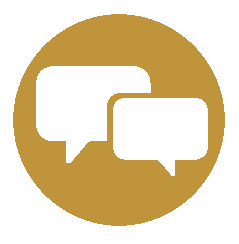
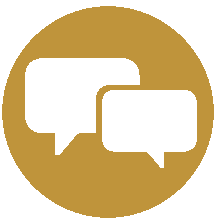
home page updated

Changed region(s): [[0.0, 0.0271, 0.9954, 1.0], [0.3318, 0.5701, 0.4424, 0.6244]]

diff --git a/index.html b/index.html
@@ -146,9 +146,10 @@
                 </div>
                 <div class="row sub">
                     <div class="col-sm-3">
-                        <h3 class="lite">Data</h3>
+                        <img class="icon" src="img/data.png">
                     </div>
                     <div class="col-sm-6 text-left">
+                        <h3 class="lite">Data</h3>
                         <p>
                             Coming soon. Registered voters in Ohio will be able to sign up for free and access unofficial voting on 
                             proposed legislation. Using the results from this unofficial voting we will be able to generate important 
@@ -158,9 +159,10 @@
                 </div>
                 <div class="row sub">
                     <div class="col-sm-offset-3 col-sm-3 col-sm-push-6">
-                        <h3 class="lite">Decisions</h3>
+                        <img class="icon" src="img/erabe.png">
                     </div>
-                    <div class="col-sm-6 col-sm-pull-3 text-left">
+                    <div class="col-sm-6 col-sm-pull-3 text-right">
+                        <h3 class="lite">Decisions</h3>
                         <p>
                             Grapevine’s ultimate goal is to be a tool that supplements representative democracy. We want to start by
                             helping the people of Ohio stay engaged with their state politics. We want to generate information that can
@@ -171,13 +173,78 @@
             </div>
         </section>
 
-        <!-- Contact Section -->
+        <!-- Contact/FAQ Section -->
         <section id="contact" class="contact-section">
             <div class="container">
                 <div class="row">
-                    <div class="col-lg-12">
-                        <h1>Contact Us</h1>
-                        <p>john@grapevineohio.com</p>
+                    <div class="col-sm-6 faq">
+                        <div class="row heading">
+                            <div class="col-xs-12">
+                                <h2>FAQS</h2>
+                            </div>
+                        </div>
+                        <div class="row">
+                            <div class="col-sm-offset-1 col-sm-10 text-left">
+                                <h4>What is Grapevine?</h4>
+                                <p>
+                                    Grapevine is a site that promotes nonpartisan civic
+                                    engagement in Ohio. It combines technology and politics
+                                    to supplement representative democracy in Ohio.
+                                </p>
+                            </div>
+                        </div>
+                        <div class="row">
+                            <div class="col-sm-offset-1 col-sm-10 text-left">
+                                <h4>How does Grapevine benefit me?</h4>
+                                <p>
+                                    Grapevine offers a place for citizens of Ohio
+                                    to learn about legislation in Ohio through direct
+                                    research and discussion.
+                                </p>
+                            </div>
+                        </div>
+                        <div class="row">
+                            <div class="col-sm-offset-1 col-sm-10 text-left">
+                                <h4>Some features say coming soon, how soon?</h4>
+                                <p>
+                                    This is unknown. Grapevine is currently
+                                    exploring future financial and operational plans.
+                                </p>
+                            </div>
+                        </div>
+                        <div class="row">
+                            <div class="col-sm-offset-1 col-sm-10 text-left">
+                                <h4>What can I do to help Grapevine?</h4>
+                                <p>
+                                    Bookmark this page. Follow Grapevine 
+                                    on Twitter <span class="lite">@GrapevineOhio.</span>
+                                    Spread the word.
+                                </p>
+                            </div>
+                        </div>
+                    </div>
+                    <div class="col-sm-6">
+                        <div class="row heading">
+                            <div class="col-lg-12">
+                                <h2>Reach Out to Us</h2>
+                            </div>
+                        </div>
+                        <div class="row contact-info">
+                            <div class="col-xs-4 text-right">
+                                <img class="mini-icon" src="img/mail.png">
+                            </div>
+                            <div class="col-xs-7 text-left">
+                                <p>John@grapevineohio.com</p>
+                            </div>
+                        </div>
+                        <div class="row contact-info">
+                            <div class="col-xs-4 text-right">
+                                <img class="mini-icon" src="img/twitter.png">
+                            </div>
+                            <div class="col-xs-7 text-left">
+                                <p>@GrapevineOhio</p>
+                            </div>
+                        </div>
                     </div>
                 </div>
             </div>
@@ -209,7 +276,6 @@
 
                 <!-- Main Script -->
                 <script src="js/script.js"></script>
-                <script src="https://cdn.ywxi.net/js/1.js" async></script>
 
             </body>
 

diff --git a/css/style.css b/css/style.css
@@ -17,16 +17,16 @@ p {
     font-size: 1em;
 }
 
-.heading * {
-    font-family: 'Julius Sans One', sans-serif;
-}
-
 .lite {
     color: #BF943B;
 }
 
 .icon {
-    max-width: 160px;
+    width: 160px;
+}
+
+.mini-icon {
+    max-width: 40px;
 }
 
 /** Logo / Nav */
@@ -58,6 +58,10 @@ p {
     margin-bottom: 10vh;
 }
 
+.heading * {
+    font-family: 'Julius Sans One', sans-serif;
+}
+
 .sub {
     margin-bottom: 5vh;
 }
@@ -65,6 +69,15 @@ p {
 .sub * {
     margin-top: 0;
     margin-bottom: 0;
+}
+
+.contact-info p {
+    font-size: 1.2em;
+    line-height: 35px;
+}
+
+.faq p {
+    margin-left: 30px;
 }
 
 /** Typed */

diff --git a/css/scrolling-nav.css b/css/scrolling-nav.css
@@ -31,6 +31,7 @@ html {
     padding-top: 150px;
     text-align: center;
     background: #eee;
+    padding-bottom: 50px;
 }
 
 /** Responsive Options */

diff --git a/pages/login.php b/pages/login.php
@@ -163,7 +163,7 @@ closeDB($db);
         </nav>
 
         <!-- Sign In / Sign Up Form -->
-        <section class="intro-section">
+        <section class="about-section">
             <div class="container">
                 <div class="row">
                     <div class="col-sm-offset-3 col-sm-6">
